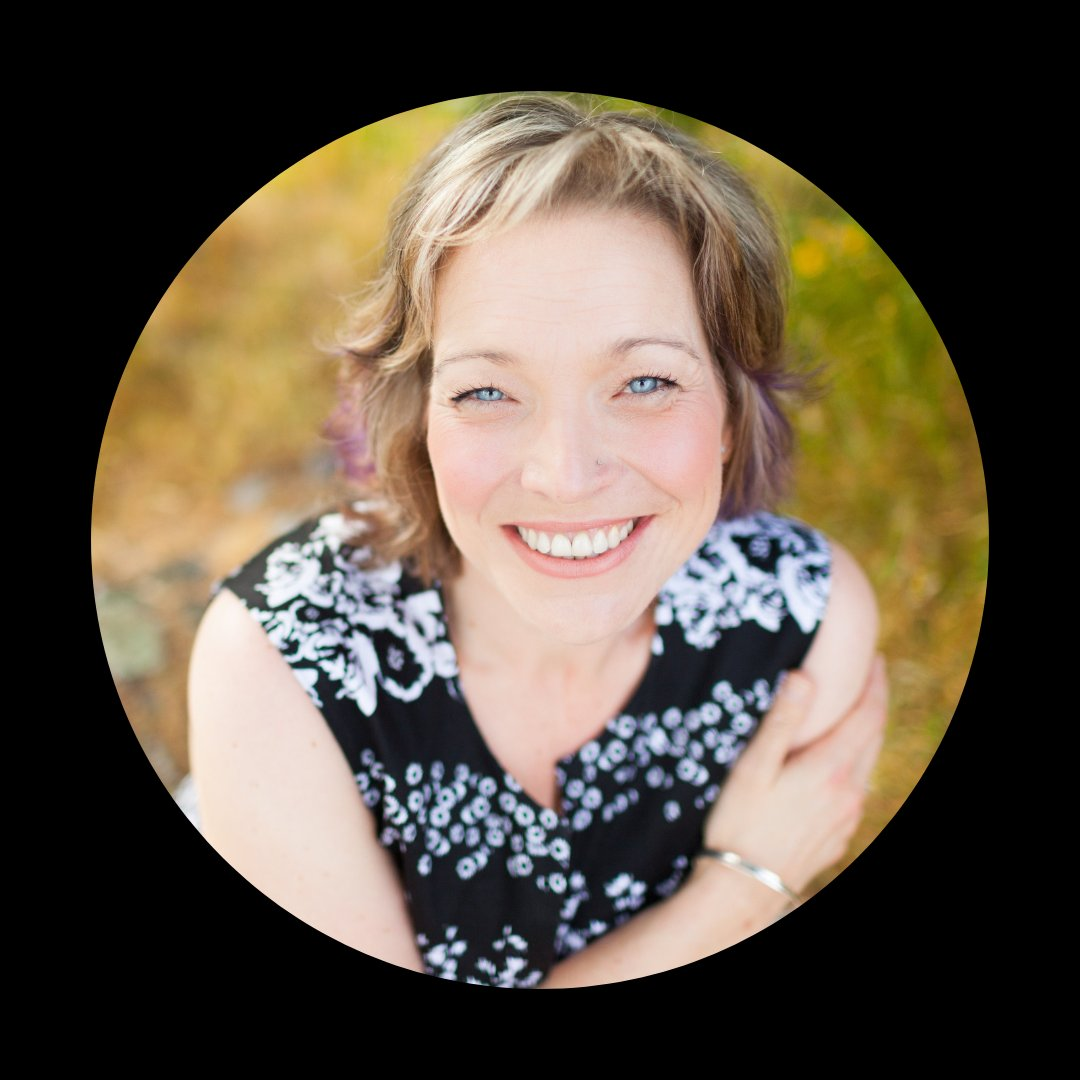
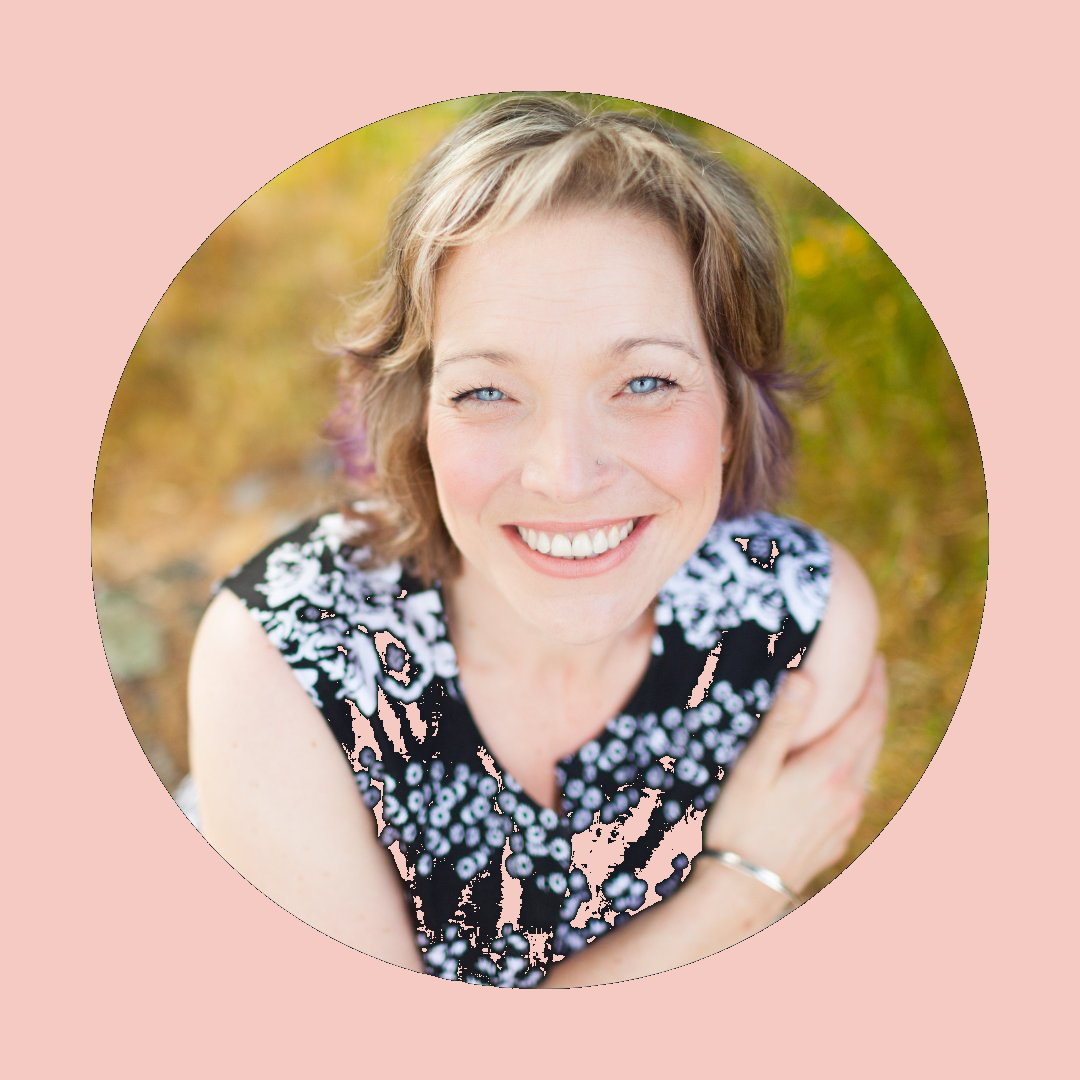
Website Update 3

diff --git a/contact.html b/contact.html
@@ -195,7 +195,7 @@
     <span class="chip chip-teal">Get in Touch</span>
     <h1>Questions? I'd love<br>to hear from you.</h1>
     <p class="lead">
-      Drop me a message. I read every email personally and respond within one business day.
+      Drop me a message. I read every email personally and respond within two business days.
     </p>
   </div>
 </section>
@@ -209,7 +209,7 @@
       <div>
         <div class="form-card">
           <h3>Send a message</h3>
-          <p>Tell me a bit about your child and what you're looking for. I'll get back to you within one business day.</p>
+          <p>Tell me a bit about your child and what you're looking for. I'll get back to you within two business days.</p>
 
           <div id="contactForm">
             <div class="form-row">
@@ -253,13 +253,13 @@
             </div>
 
             <button class="btn btn-primary form-submit" onclick="submitForm()">Send Message</button>
-            <p class="form-note">I'll respond within one business day. Your information stays private.</p>
+            <p class="form-note">I'll respond within two business days. Your information stays private.</p>
           </div>
 
           <div class="form-success" id="formSuccess">
             <div class="success-mark">✓</div>
             <h3>Message received!</h3>
-            <p>Thanks for reaching out. I'll get back to you within one business day.</p>
+            <p>Thanks for reaching out. I'll get back to you within two business days.</p>
             <p>In the meantime, if you're ready to book a consult, you can do that directly below.</p>
             <a href="get-started.html" class="btn btn-primary" style="margin-top:1rem;">Book a Free Consult</a>
           </div>
@@ -271,7 +271,7 @@
 
         <div class="response-card">
           <div class="dot"></div>
-          <p><strong>Usually responds within 1 business day.</strong> Email is the best way to reach me.</p>
+          <p><strong>Usually responds within 2 business days.</strong> Email is the best way to reach me.</p>
         </div>
 
         <div class="info-block">

diff --git a/get-started.html b/get-started.html
@@ -335,10 +335,13 @@
 <!-- WHAT TO EXPECT -->
 <section class="expect-section">
   <div class="container">
-    <p class="section-label">The First Month</p>
-    <h2>What happens after you book.</h2>
+    <p class="section-label">What to Expect</p>
+    <h2>What happens after you reach out.</h2>
     <div class="divider"></div>
-    <div class="expect-timeline">
+    <div style="background:rgba(255,255,255,0.06);border:1px solid rgba(255,255,255,0.15);border-radius:var(--radius);padding:1.2rem 1.5rem;margin-bottom:2rem;">
+        <p style="color:rgba(255,255,255,0.8);font-size:0.92rem;margin:0;">A note: my caseload is limited and spots fill up. If you reach out when I'm full, I'll let you know right away and we can talk about timing or next steps.</p>
+      </div>
+      <div class="expect-timeline">
       <div class="timeline-item">
         <div class="timeline-label">First</div>
         <div class="timeline-content">

diff --git a/about.html b/about.html
@@ -165,7 +165,7 @@
 <!-- PAGE HERO -->
 <section class="page-hero">
   <div class="container">
-    <span class="chip chip-teal">About Michelle</span>
+    <span class="chip chip-teal">Hi, I'm Michelle — my students call me Ms. Mack.</span>
     <h1>This work chose me<br>as much as I chose it.</h1>
     <p class="lead">
       I believe every child deserves access to effective literacy instruction, and that reading, writing, and spelling are skills that can be taught to anyone when the approach is right. I also believe you can't separate the literacy piece from the whole child. Confidence, self-concept, and emotional wellbeing are part of the picture too.
@@ -182,7 +182,7 @@
         <h2>Why I do this work.</h2>
         <div class="divider"></div>
 
-        <p>I've been a literacy specialist for over 16 years, and I became one because I kept watching smart, capable students get labeled as "behind" when what was really happening was much simpler: nobody had taught them to read, write, and spell in a way that worked for how their brain is wired.</p>
+        <p>I've been a literacy specialist for over 16 years, and I became one because I kept watching smart, capable students get labeled as "behind" when what was really happening was much simpler: they just hadn't been given the right kind of instruction yet. The kind that actually matches how their brain learns.</p>
 
         <p>There's a particular student I think about often. Sharp, funny, full of ideas. Completely shut down the moment anything literacy-related landed on the table. Not because they were lazy, but because nobody had taught the skills directly and in the right order. When we finally did, everything changed.</p>
 
@@ -216,7 +216,7 @@
       </div>
 
       <div class="about-image-block">
-        <div style="background:var(--blush);border-radius:var(--radius-lg);box-shadow:var(--shadow-lg);overflow:hidden;"><img src="michelle.png" alt="Michelle McIntosh, literacy specialist" style="width:100%;display:block;"></div>
+        <div style="background:#f5cac3;border-radius:var(--radius-lg);box-shadow:var(--shadow-lg);padding:2rem;text-align:center;"><img src="michelle.png" alt="Michelle McIntosh, literacy specialist" style="width:100%;max-width:320px;display:block;margin:0 auto;border-radius:50%;"></div>
         <div class="about-badge">
           <div class="num">16+</div>
           <p>years of<br>1:1 practice</p>

diff --git a/index.html b/index.html
@@ -371,7 +371,7 @@
         <p class="hero-eyebrow">Online Literacy &amp; Learning Support</p>
         <h1>Reading and writing<br>that finally <span>clicks.</span></h1>
         <p class="hero-lead">
-          Some students need more than a worksheet and a lot more than "just practice more." Explicit, systematic, structured instruction, delivered 1:1, online, at their pace.
+          Explicit, systematic, structured literacy instruction, delivered 1:1, online, at their pace — with real dedication to progress and plenty of fun along the way.
         </p>
         <div class="hero-actions">
           <a href="https://koalendar.com/e/free-30-minute-parent-consultation" target="_blank" class="btn btn-primary">Book a Free Consult</a>
@@ -455,7 +455,7 @@
       <div class="who-card">
         <div class="who-marker marker-1"></div>
         <h3>The child who dreads school</h3>
-        <p>Reading and writing feel like the hardest things in the world. They're not struggling because they're not trying. Something was never properly taught.</p>
+        <p>Reading and writing feel like the hardest things in the world. They're not struggling because they're not trying. Reading and spelling are skills. They can be taught — sometimes they just haven't been taught in the right way yet.</p>
       </div>
       <div class="who-card">
         <div class="who-marker marker-2"></div>